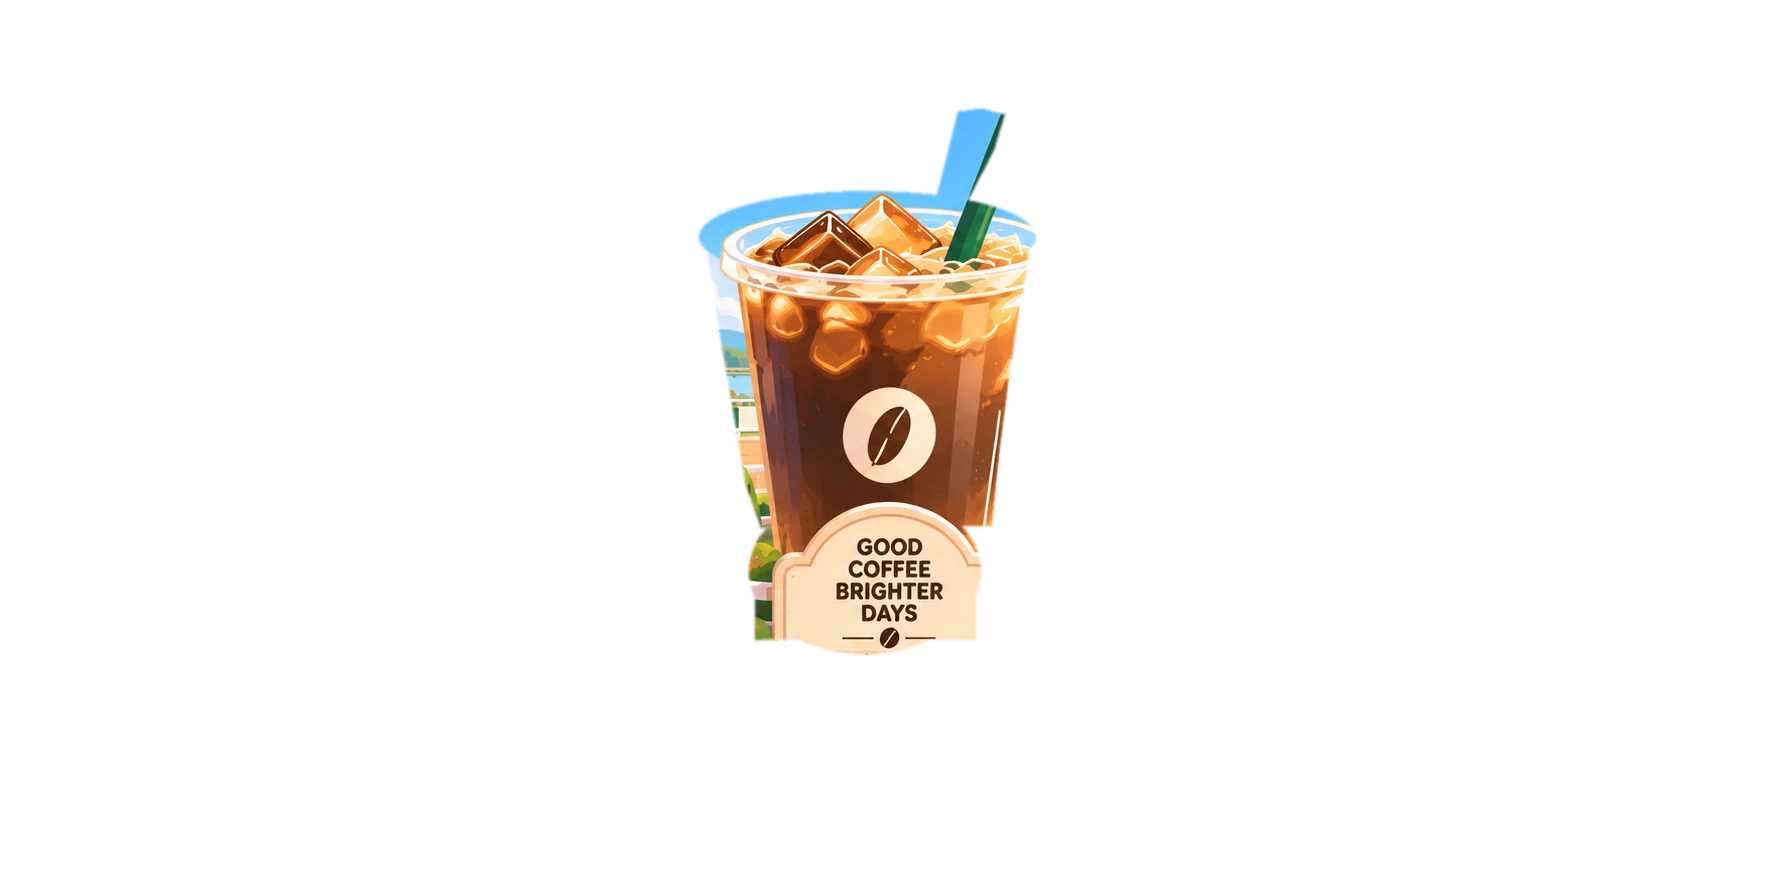
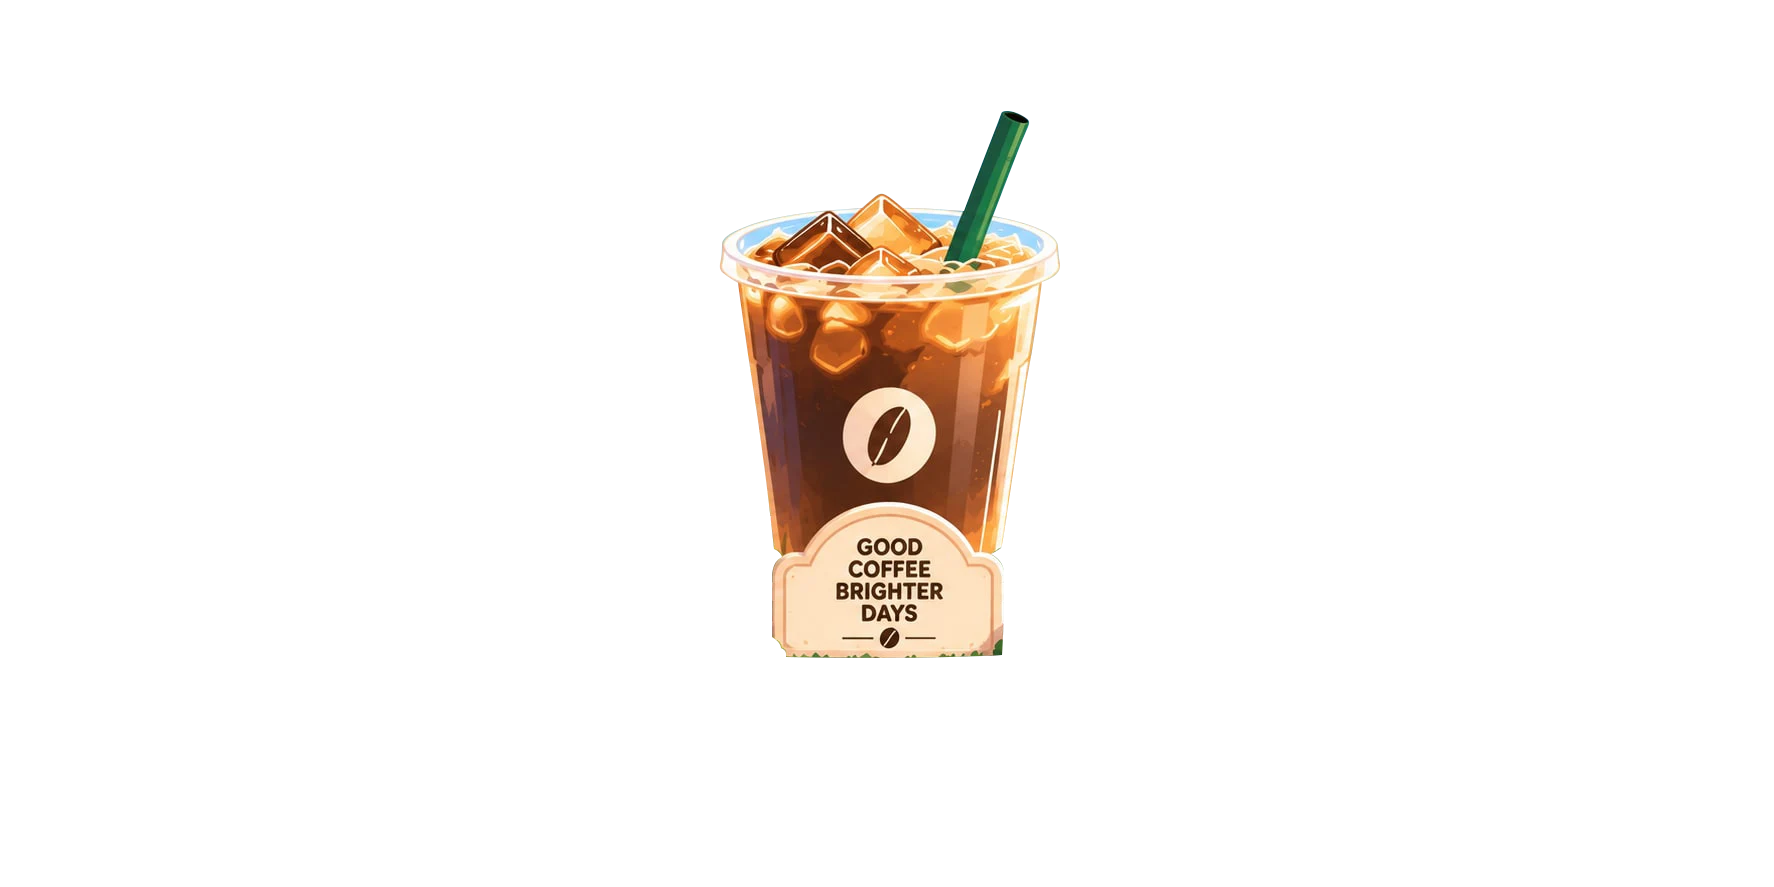
fix/히어로 cup-front 레이어를 컵·간판만 남긴 이미지로 교체

Changed region(s): [[0.372, 0.1218, 0.5891, 0.761]]

diff --git a/frontend/public/images/hero/CREDITS.md b/frontend/public/images/hero/CREDITS.md
@@ -3,7 +3,7 @@
 | 파일 | 원본 | 작가 | 라이선스 |
 |---|---|---|---|
 | `coffee-race/background.jpg` | 팀 제공 일러스트 (커피 컵 경주 트랙, 말 없음) | 팀 제공 | 프로젝트 내부 사용 |
-| `coffee-race/cup-front.webp` | 위 일러스트에서 컵 · 화단만 남긴 투명 레이어 | 팀 제공 | 프로젝트 내부 사용 |
+| `coffee-race/cup-front.webp` | 위 일러스트에서 컵 · 간판만 남긴 투명 레이어 | 팀 제공 | 프로젝트 내부 사용 |
 | `coffee-race/horse-*.webp` | 팀 제공 말 캐릭터 7종 (기수 없음, 투명 배경) | 팀 제공 | 프로젝트 내부 사용 |
 
 - 원본 PNG(1774×887)를 배경은 JPEG(q88), 투명 레이어는 WebP(q88~90, 알파 무손실)로 변환한 사본이다.
